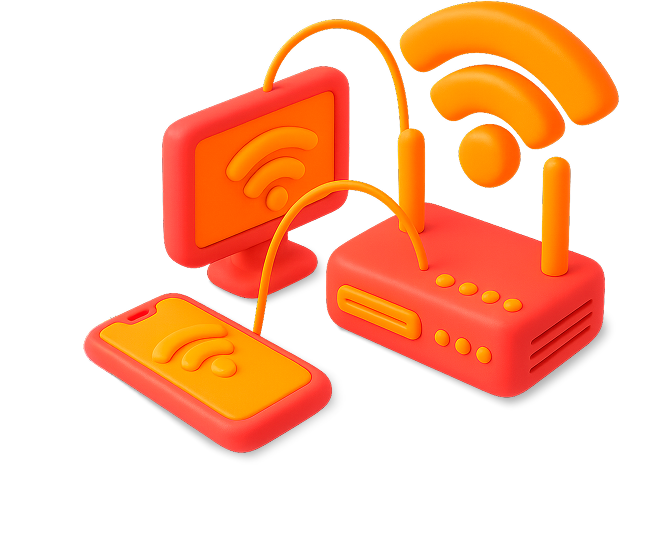
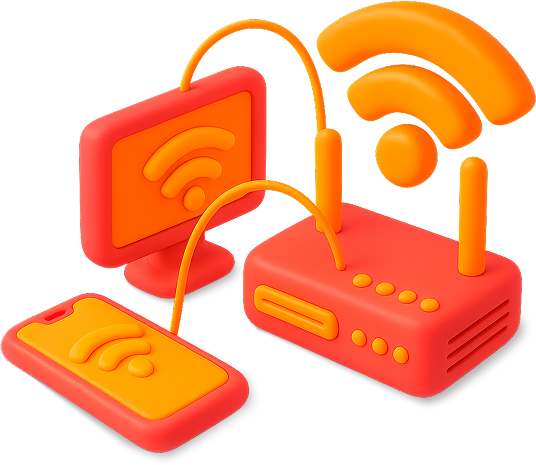
Update styles for improved layout and responsiveness; replace Wi-Fi image

diff --git a/css/styles.css b/css/styles.css
@@ -24,8 +24,8 @@ body {
 	align-items: center;
 	gap: 1.2rem;
 	background: #e14983;
-	padding: 0.55rem 0.6rem 0.55rem 1.2rem;
-	border-radius: 999px;
+	padding: 0.55rem 1.1rem;
+	border-radius: 30px;
 }
 .site-header__city-info {
 	display: flex;
@@ -54,8 +54,8 @@ body {
 	font-weight: 700;
 	border: none;
 	border-radius: 999px;
-	padding: 0.75rem 1.8rem;
-	font-size: 0.95rem;
+	padding: 0.65rem 1.4rem;
+	font-size: 0.85rem;
 	text-transform: uppercase;
 	letter-spacing: 0.08em;
 	cursor: pointer;
@@ -180,6 +180,11 @@ body {
 	text-align: center;
 	max-width: 720px;
 	margin: 0 auto 3rem;
+}
+.section__header h2 {
+	font-size: 2.4rem;
+	line-height: 1.2;
+	color: #4b4b51;
 }
 .eyebrow {
 	font-size: 1rem;
@@ -314,7 +319,7 @@ body {
 	margin-bottom: 1rem;
 }
 .benefits__title {
-	font-size: 42px;
+	font-size: 2.4rem;
 	font-weight: 600;
 	color: #555555;
 	margin-bottom: 0.8rem;
@@ -409,7 +414,7 @@ body {
 	margin-bottom: 1rem;
 }
 .plans__title {
-	font-size: 40px;
+	font-size: 2.4rem;
 	font-weight: 600;
 	color: #fff;
 	margin-bottom: 0.5rem;
@@ -653,7 +658,7 @@ body {
 	margin-bottom: 1rem;
 }
 .wifi__title {
-	font-size: 2.8rem;
+	font-size: 2.4rem;
 	font-weight: 600;
 	color: #4b4b51;
 	margin-bottom: 1rem;
@@ -679,6 +684,10 @@ body {
 .wifi__benefits li img {
 	width: 18px;
 	height: 18px;
+}
+.wifi__media {
+	display: flex;
+	justify-content: center;
 }
 .wifi__media img {
 	width: 100%;
@@ -708,7 +717,7 @@ body {
 	color: #fff;
 }
 .cashback__content h2 {
-	font-size: 2.9rem;
+	font-size: 2.4rem;
 	font-weight: 600;
 	color: #f3953f;
 	margin-bottom: 1rem;
@@ -743,7 +752,7 @@ body {
 	margin: 0 auto;
 }
 .ready-cta__box h2 {
-	font-size: 2.8rem;
+	font-size: 2.4rem;
 	font-weight: 600;
 	margin-bottom: 0.75rem;
 }
@@ -813,7 +822,7 @@ body {
 	margin-bottom: 0.8rem;
 }
 .metrics__title {
-	font-size: 2.6rem;
+	font-size: 2.4rem;
 	font-weight: 600;
 	color: #4b4b51;
 }
@@ -1095,6 +1104,7 @@ body {
 	text-decoration: none;
 	box-shadow: 0 15px 30px rgba(37, 211, 102, 0.35);
 	animation: pulse 3s infinite;
+	z-index: 1200;
 }
 .whatsapp__icon svg {
 	width: 26px;
@@ -1128,6 +1138,7 @@ body {
 	opacity: 0;
 	pointer-events: none;
 	transition: var(--transition);
+	z-index: 1200;
 }
 .scroll-top img {
 	width: 18px;
@@ -1330,28 +1341,67 @@ body.modal-open {
 	.hero {
 		padding: 3rem 0;
 	}
+	.hero__body {
+		grid-template-columns: 1fr;
+		text-align: center;
+	}
 	.hero__content h1 {
 		font-size: 2.4rem;
+	}
+	.hero__subtitle {
+		margin-left: auto;
+		margin-right: auto;
+	}
+	.hero__actions {
+		justify-content: center;
+	}
+	.hero__media {
+		margin-top: 1.5rem;
+		order: 2;
+	}
+	.hero__figure {
+		max-width: 90vw;
+		margin: 0 auto;
 	}
 	.btn {
 		width: 100%;
 		justify-content: center;
 	}
-	.hero__body {
-		grid-template-columns: 1fr;
-	}
-	.hero__media {
-		margin-top: 1rem;
-	}
 	.plans__grid,
 	.benefits__grid {
 		grid-template-columns: 1fr;
+	}
+	.benefits__subtitle {
+		font-size: 1.2rem;
+	}
+	.wifi__card {
+		grid-template-columns: 1fr;
+		text-align: center;
+	}
+	.wifi__media {
+		order: 2;
+		margin-top: 1.5rem;
+	}
+	.wifi__media img {
+		max-width: 85vw;
+		margin: 0 auto;
+	}
+	.cashback__card {
+		flex-direction: column;
+		text-align: center;
+	}
+	.cashback__media {
+		order: 2;
+	}
+	.cashback__media img {
+		max-width: 85vw;
+		margin: 0 auto 1rem;
 	}
 	.metrics__grid {
 		grid-template-columns: 1fr;
 	}
 	.metrics__title {
-		font-size: 2.1rem;
+		font-size: 2.4rem;
 	}
 	.metrics__description {
 		font-size: 1.4rem;
@@ -1360,15 +1410,13 @@ body.modal-open {
 		padding: 2rem 1.5rem;
 	}
 	.ready-cta__box h2 {
-		font-size: 2.2rem;
+		font-size: 2.4rem;
 	}
 	.ready-cta__box p {
 		font-size: 1.05rem;
 	}
-	.ready-cta__actions {
-		flex-direction: column;
-	}
-	.footer__bottom {
+	.ready-cta__actions,
+	.footer__bottom-content {
 		flex-direction: column;
 		text-align: center;
 	}
@@ -1379,19 +1427,8 @@ body.modal-open {
 	.footer__actions {
 		width: 100%;
 	}
-	.footer__whats {
-		width: 100%;
-		text-align: center;
-	}
-	.footer__bottom-content {
-		flex-direction: column;
-		text-align: center;
-	}
 	.cta-final {
 		padding: 2rem;
-	}
-	.scroll-top {
-		bottom: 4.5rem;
 	}
 }
 @media (max-width: 600px) {
@@ -1404,8 +1441,54 @@ body.modal-open {
 		align-items: stretch;
 		width: 100%;
 	}
-	.btn--chip {
+	.site-header__city {
+		flex-direction: column;
+		align-items: center;
+		gap: 0.7rem;
+		text-align: center;
+		padding: 0.45rem 0.9rem;
+		border-radius: 24px;
+	}
+	.site-header__city-info strong {
+		font-size: 0.8rem;
+	}
+	.site-header__change {
 		width: 100%;
 		justify-content: center;
+		font-size: 0.75rem;
+		padding: 0.35rem 0.7rem;
+	}
+	.site-header__change .icon {
+		width: 1rem;
+		height: 1rem;
+	}
+	.footer__actions {
+		width: 100%;
+	}
+	.chip,
+	.footer__actions .chip,
+	.plan-card__btn,
+	.btn--chip,
+	.footer__whats,
+	.footer__phone {
+		width: 100%;
+		justify-content: center;
+		text-align: center;
+	}
+	.hero__actions {
+		width: 100%;
+	}
+	.site-header__city,
+	.site-header__change {
+		width: 100%;
+		margin: 0;
+	}
+	.whatsapp {
+		right: 1rem;
+		bottom: 1rem;
+	}
+	.scroll-top {
+		right: 1.3rem;
+		bottom: 5.5rem;
 	}
 }
